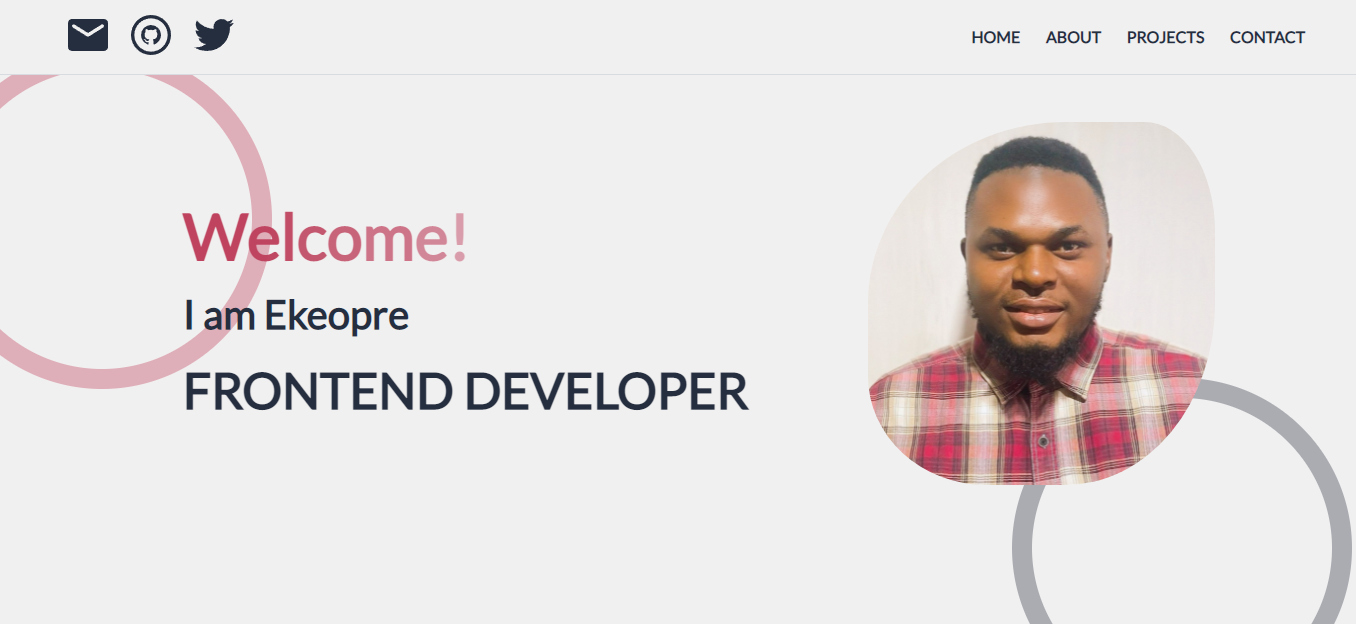
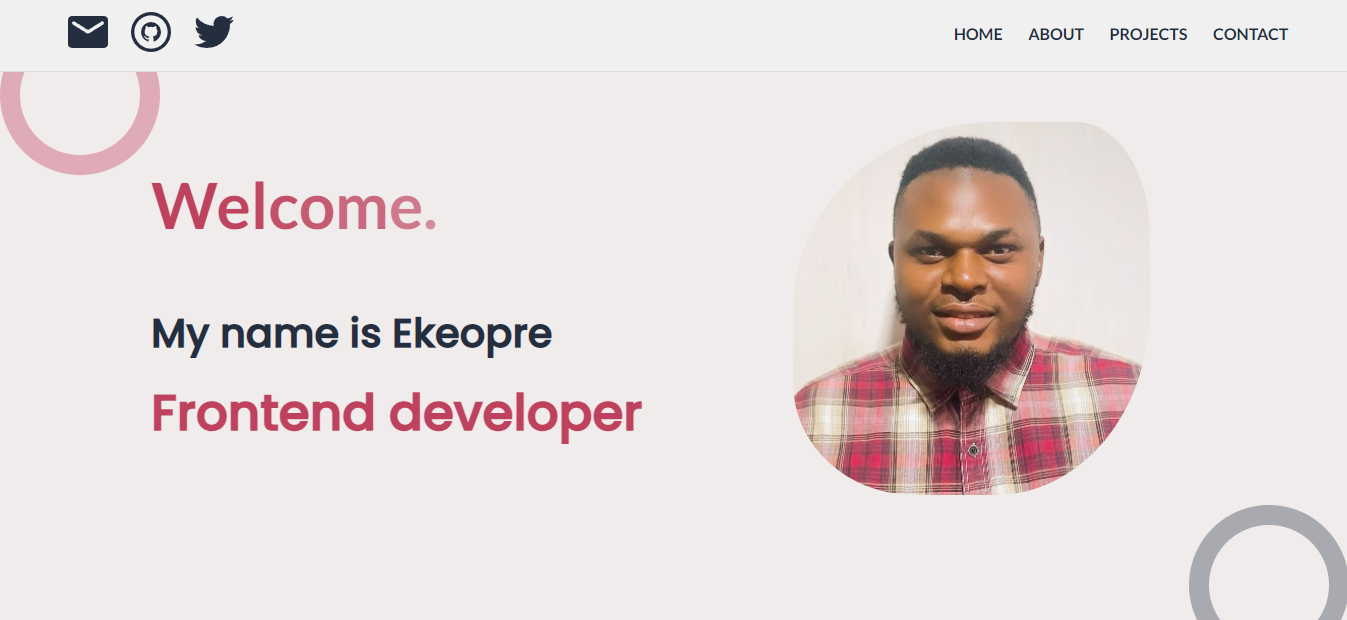
updated

Changed region(s): [[0.5924, 0.2145, 1.0, 1.0], [0.0, 0.0, 0.5612, 0.7048], [0.686, 0.0306, 0.9666, 0.0919]]

diff --git a/style.css b/style.css
@@ -6,7 +6,7 @@
   margin: 0;
   padding: 0;
 }
-
+/* General styles*/
 html {
   width: 100%;
   overflow-x:hidden;
@@ -34,6 +34,9 @@ p {
 a {
   text-decoration: none;
 }
+
+/* NAVIGATION */
+
 nav {
  background: #f1f0f0;
  position: fixed;
@@ -83,6 +86,8 @@ nav ul li a:hover {
   transform: translateY(-5px)
 }
 
+
+/* HERO SECTION STYLES*/
 
 main .hero-section{
   
@@ -162,6 +167,9 @@ main .hero-section img {
   padding: 0 3rem 0 0;
 }
 
+
+/* ABOUT SECTION STYLES */
+
 main .about-section {
  
 /* Created with https://www.css-gradient.com */
@@ -201,6 +209,9 @@ main .about-section .about-section-text p a {
   color: #fa7894;
 }
 
+
+/* scroll up button  */
+
 #myBtn {
 display: none; /* Hidden by default */
 position: fixed; /* Fixed/sticky position */
@@ -221,7 +232,7 @@ font-size: 18px; /* Increase font size */
 background-color: #b2aeaf; /* Add a dark-grey background on hover */
 }
 
-
+/* PORTFOLIO SECTION STYLES  */
 main .portfolio-section{
 
 background: #f1f0f0;
@@ -240,7 +251,10 @@ main .portfolio-section h2 {
 main .portfolio-section .portfolio-section-grid {
 
   display: flex;
-  gap: 30px;
+  flex-direction: column;
+  margin: 0 auto;
+  width: 50%;
+  gap: 80px;
   padding: 0 20px;
   margin-bottom: 50px;
    
@@ -278,6 +292,7 @@ main .portfolio-section .portfolio-section-grid .card {
 }
 
 main .portfolio-section .portfolio-section-grid .card figure figcaption {
+   font-family: 'Poppins', sans-serif;
   color: #252e3f;
    line-height: 1.5;
   padding: 20px 0
@@ -287,14 +302,15 @@ main .portfolio-section .portfolio-section-grid .card a {
 
   text-transform: uppercase;
   cursor: pointer;
-  font-size: 16px;
+  font-size: 18px;
   font-weight: 700;
   background: #252e3f;
   border: 1px solid #252e3f;
   border-radius: 20px;
   color: #ffffff;
-  padding: 7px 10px;
+  padding: 10px 10px;
  margin-right: 20px; 
+
   transition: 0.5s all;
 }
 
@@ -303,6 +319,7 @@ main .portfolio-section .portfolio-section-grid .card a:hover {
   border: none;
 }
 
+/* FOOTER SECTION STYLES */
 
 footer {
   width: 100%;
@@ -667,7 +684,7 @@ main .portfolio-section .portfolio-section-grid .card a {
 
 
   cursor: pointer;
-  font-size: 10px;
+  font-size: 16px;
   font-weight: 700;
   background: #252e3f;
   border: 1px solid #252e3f;
@@ -743,7 +760,7 @@ main .portfolio-section .portfolio-section-grid .card a {
 
 
   cursor: pointer;
-  font-size: 10px;
+  font-size: 14px;
   font-weight: 700;
   background: #252e3f;
   border: 1px solid #252e3f;
@@ -926,6 +943,7 @@ main .portfolio-section .portfolio-section-grid {
 
   display: flex;
   gap: 30px;
+  
   padding: 0 20px;
 
  
@@ -1159,6 +1177,7 @@ main .portfolio-section .portfolio-section-grid {
     display: flex;
     flex-direction: column;
     gap: 30px;
+    width: 100%;
     padding: 0 20px;
 }
 
@@ -1213,6 +1232,7 @@ main .portfolio-section .portfolio-section-grid .card a {
 main .portfolio-section .portfolio-section-grid {
     display: flex;
     flex-direction: column;
+    width: 100%;
     gap: 30px;
     padding: 0 20px;
 }
@@ -1359,6 +1379,7 @@ main .portfolio-section h2 {
 main .portfolio-section .portfolio-section-grid {
     display: flex;
     flex-direction: column;
+  width: 100%;
     gap: 30px;
     padding: 0 20px;
 }
@@ -1499,6 +1520,7 @@ main .portfolio-section h2 {
 main .portfolio-section .portfolio-section-grid {
     display: flex;
     flex-direction: column;
+  width: 100%;
     gap: 30px;
     padding: 0 20px;
 }
@@ -1633,6 +1655,7 @@ main .portfolio-section h2 {
 main .portfolio-section .portfolio-section-grid {
     display: flex;
     flex-direction: column;
+  width: 100%;
     gap: 30px;
     padding: 0 20px;
 }

diff --git a/index.html b/index.html
@@ -18,7 +18,10 @@
 	<link href="style.css" rel="stylesheet" type="text/css" />
 </head>
 
-<body>
+<body id="smooth-wrapper">
+  <div id="smooth-content">
+    
+
 	<header>
 		<nav>
 		<div class="icons top-icons">  
@@ -86,7 +89,7 @@
     <section class="about-section section-dark-color" id="about-section">
         <div class="about-section-text">
             <h2 class="about-section-heading headline" id="about-section-heading headline">About</h2>
-            <p id="about-p tagline">Hello, I'm Ekeopre, a frontend developer from Bayelsa, Nigeria and I'm passionate about creating interactive websites and web experiences. My journey into the web development began during the pandemic when I became curious about how websites were built. I started learning on Youtube and I have since moved on to developing some pretty awesome websites.<br> <br>I have degree in computer science and experience using tools like <span>HTML5, CSS3, Bootstrap, Responsive design, TailwindCSS, Git version control and the JavaScript programming language.</span>  <br> <br>When I'm not developing websites or learning, I enjoy writing and sharing my thoughts with the online community on <a href="https://twitter.com/iamthebuilder__" target="_blank"> twitter</a> about learning rescources for code and being productive. I'm always looking for opportunities to improve my skills so I'm open to remote and onsite web development opportunities. <br> <br> Let's have chat sometime, I'll be looking forward to working with you.</p>
+            <p id="about-p tagline">Hello, I'm Ekeopre, a frontend developer from Bayelsa, Nigeria and I'm passionate about creating interactive websites and web experiences. My journey into the web development began during the pandemic when I became curious about how websites were built. While I couldn't afford to attend a bootcamp, I began my learning on YouTube and I have since moved on to create some pretty awesome websites.<br> <br>I have degree in computer science and experience using tools like <span>HTML5, CSS3, Bootstrap, Responsive design, TailwindCSS, Git version control and the JavaScript programming language </span>and also an eye for aesthetics in web design.  <br> <br>When I'm not developing websites or learning, I enjoy writing and sharing my thoughts with the online community on <a href="https://twitter.com/iamthebuilder__" target="_blank"> twitter</a> about  ways to be productive and rescources for learning how to code. I'm always looking for opportunities to improve my skills so I'm open to remote and onsite web development opportunities. <br> <br>Now that you know a little bit about me, Let's have chat sometime, I'll be looking forward to sharing more with you.</p>
         </div>
    </section>
 
@@ -212,7 +215,15 @@
     <script src="https://cdnjs.cloudflare.com/ajax/libs/animejs/2.0.2/anime.min.js"></script>
     <script src="https://cdnjs.cloudflare.com/ajax/libs/gsap/3.9.1/gsap.min.js"></script>
     <script>
-     const heroText = document.getElementById("hero-section-heading");
+     gsap.registerPlugin(ScrollTrigger, ScrollSmoother);
+
+      let smoother = ScrollSmoother.create({
+      wrapper = '#smooth-wrapper',
+        content = '#smooth-content',
+        smooth = 2,
+        effects = true,
+        
+      })
       gsap.from('img', {opacity: 0, duration: 1, y:30});
        gsap.from('#hero-section-heading', {opacity: 0, duration: 2, y:30});
       gsap.from('#hero-p', {opacity: 0, duration: 3, y:30});
@@ -224,5 +235,6 @@
     ScrollReveal().reveal(target, options);
   </script>
      <script src="script.js"></script>
+      </div>
 </body>
  </html>
